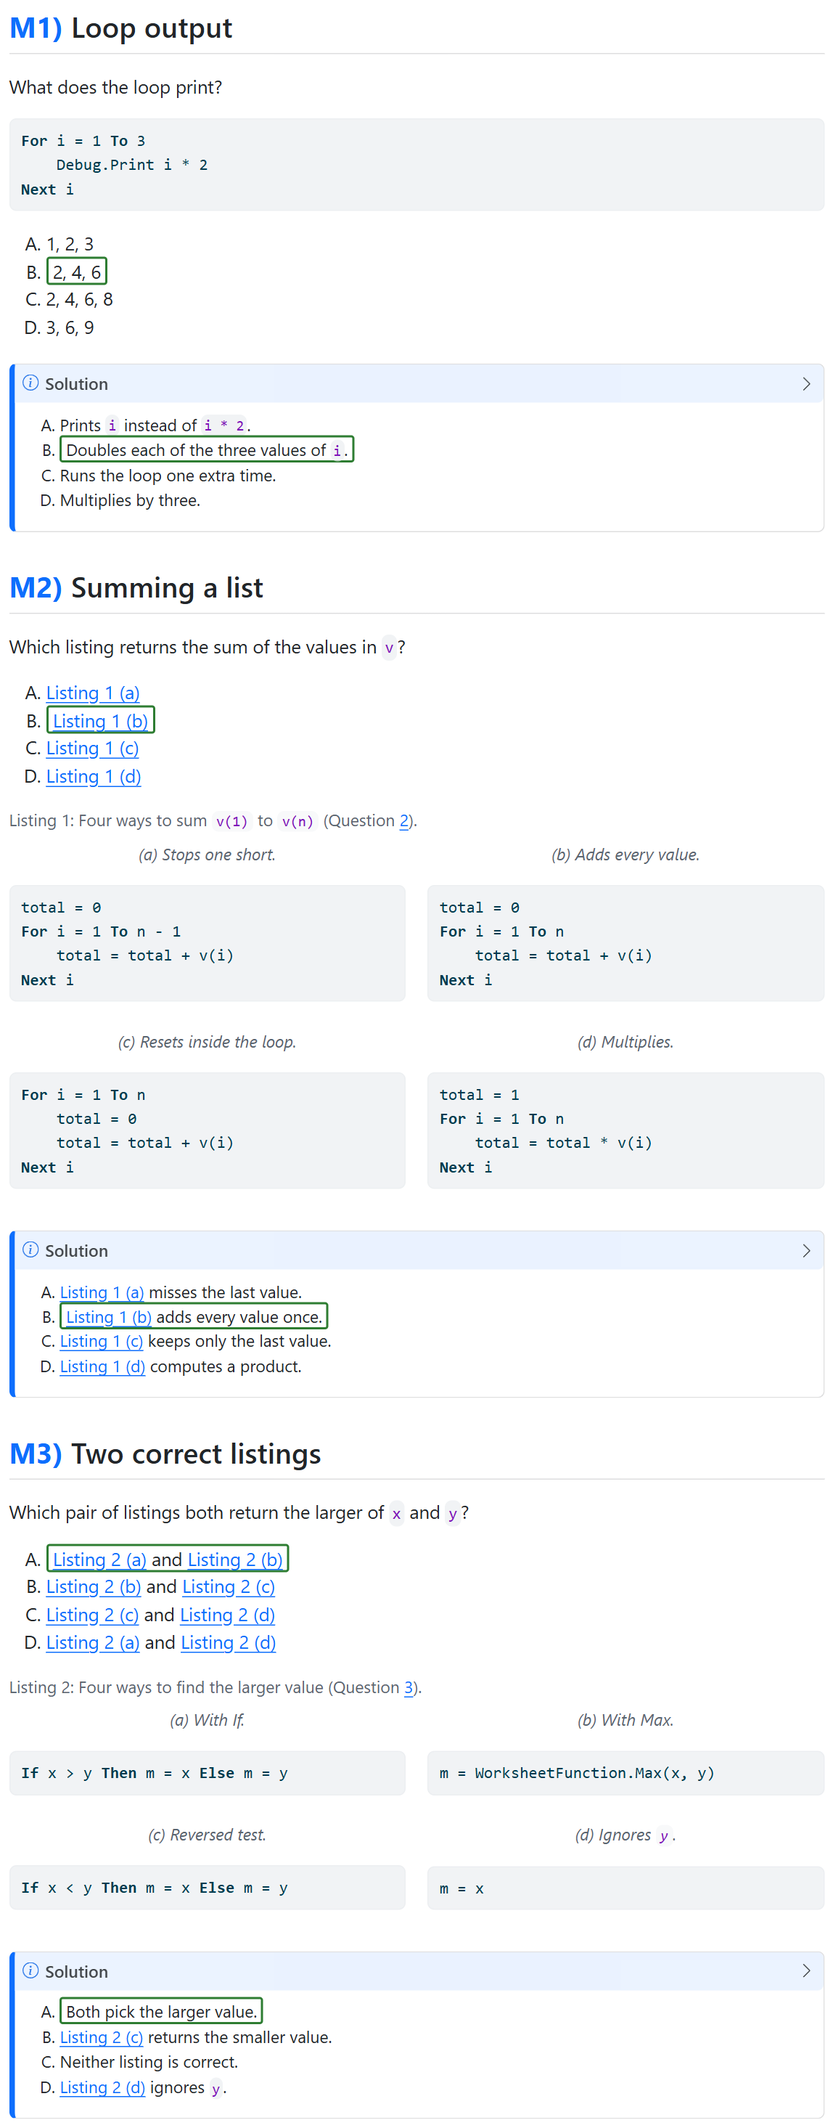
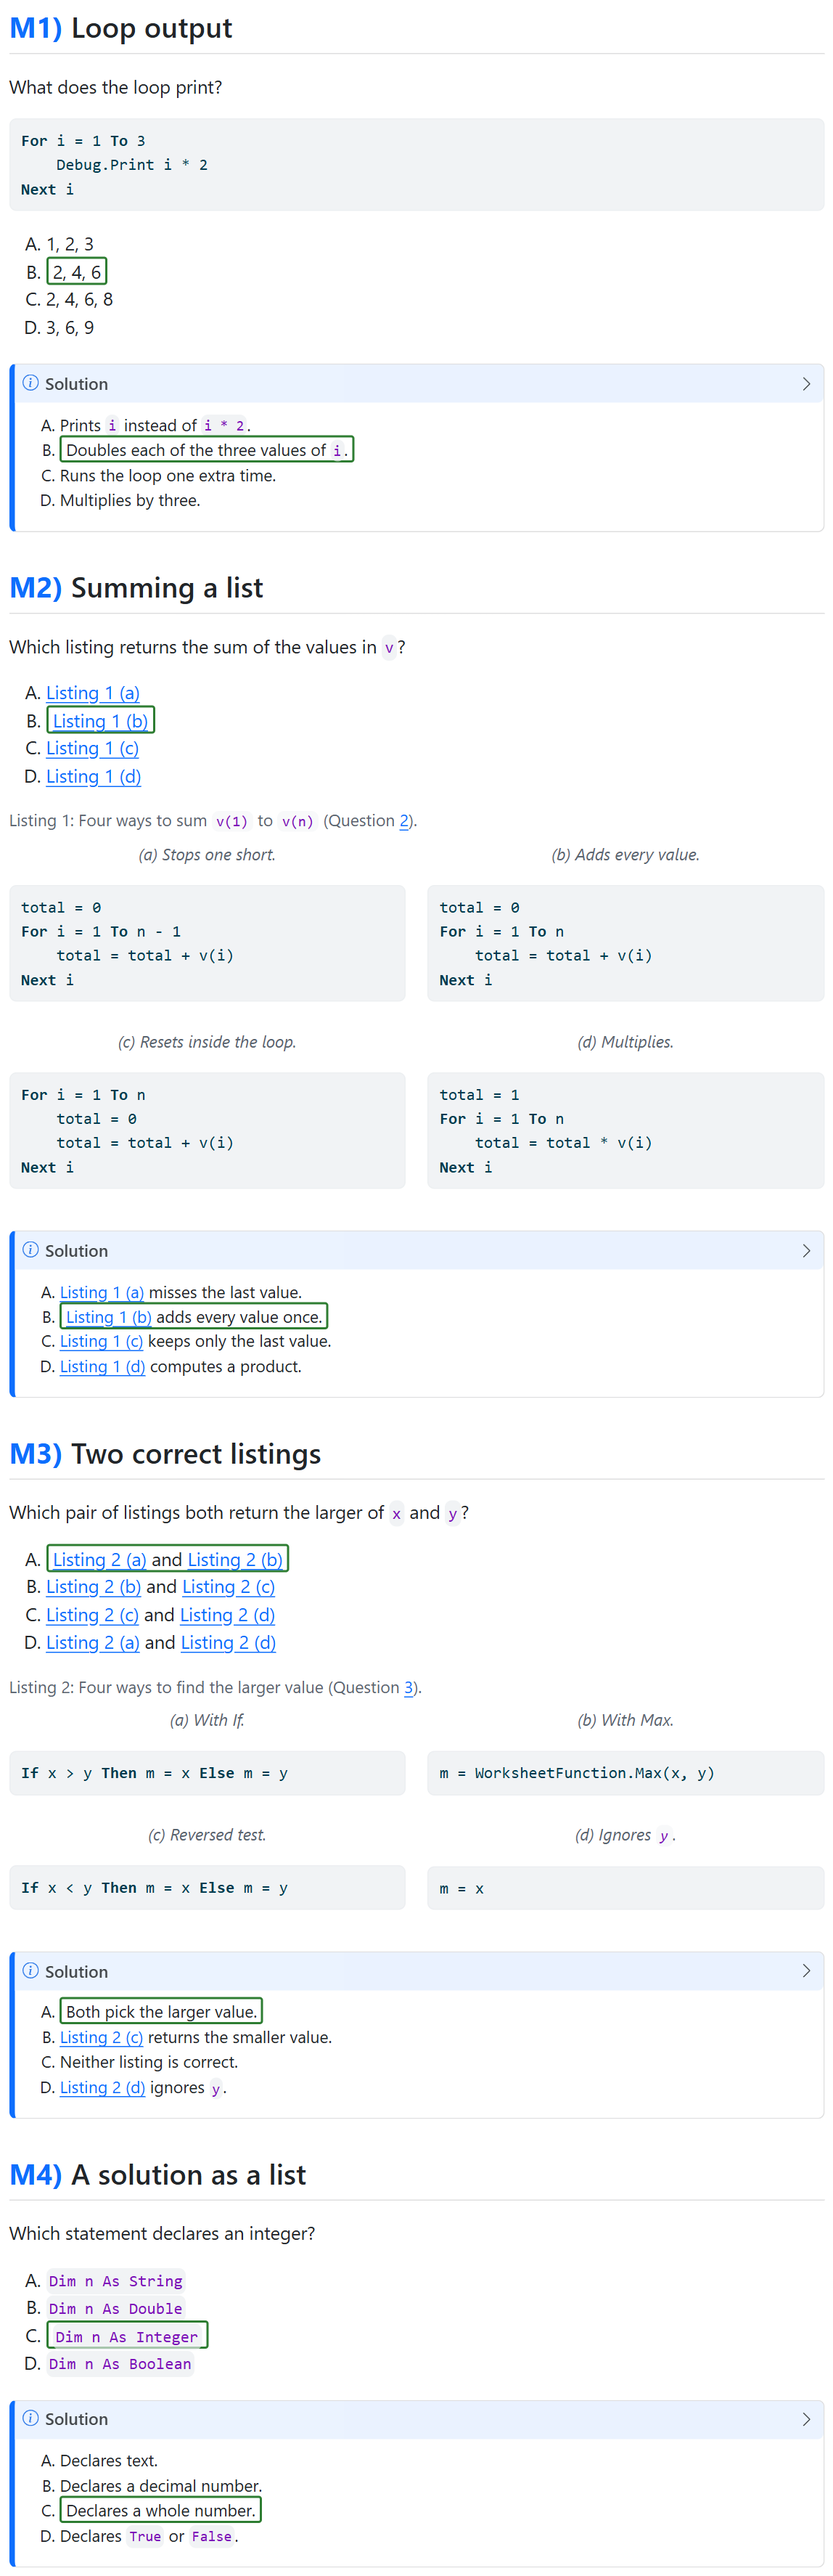
Show the Solution as the explanation list alone
The example's fourth question drops its Answer line and gives its
Solution as an alpha-explanations list, so it moves like the others; the
README recommends that form, since the explanation marked .correct is
the answer and never names a stale letter. The screenshots now show
questions 1 to 4 and the keys match the new render.

diff --git a/README.md b/README.md
@@ -218,34 +218,36 @@ quarto render example-exam.qmd -M exercise-audience:answers -M exam-version:B
 |---|---|
 | ![Version A of the example exam](images/exam-version-A.png) | ![Version B of the example exam](images/exam-version-B.png) |
 
+Every Solution in the example is only its `.alpha-explanations` list. There is
+no separate "**Answer:** C" line: the explanation marked `.correct` is the
+answer, and it moves with its option, so no letter can go stale.
+
 What changed in version B:
 
-1. **Loop output**, a plain question: the correct option moves from B to D,
-   and the explanations in its `.alpha-explanations` block follow, with
-   `.correct` still on the right one.
+1. **Loop output**, a plain question: the correct option moves from B to A,
+   and the explanations follow, with `.correct` still on the right one.
 2. **Summing a list**, one listing per option: the correct option moves from
-   B to A, and the four listings move with their options, so A still shows
-   panel (a) and every explanation still names the listing it describes.
+   B to D, and the four listings move with their options, so D shows panel (d)
+   and every explanation still names the listing it describes.
 3. **Two correct listings**, a pair per option: the correct pair moves from A
-   to B. Every letter names the same slots as before, A (a) and (b), B (b) and
+   to C. Every letter names the same slots as before, A (a) and (b), B (b) and
    (c), C (c) and (d), D (a) and (d), now filled with the listings that make
    the new key true.
-4. **A solution that names a letter** ("**Answer:** C") keeps its order,
-   because the letter would be wrong in version B. Name the answer by its
-   content instead, `**Answer:** Dim n As Integer`, and the question moves
-   like the others.
+4. **A solution as a list**, the plainest case: the correct option moves from
+   C to D, and its explanation goes with it.
 5. **An option that refers to the others** ("None of the above") keeps its
-   order.
+   order, and the render says why:
 
-The render says why the last two stay:
-
-```
-WARNING exam-version: question 4 keeps its order: it names options by letter; name them by their content instead
-WARNING exam-version: question 5 keeps its order: an option refers to the other options
-```
+   ```
+   WARNING exam-version: question 5 keeps its order: an option refers to the other options
+   ```
 
 Each answer view ends with its key: `Key, version A: 1 B, 2 B, 3 A, 4 C, 5 B`
-and `Key, version B: 1 D, 2 A, 3 B, 4 C, 5 B`.
+and `Key, version B: 1 A, 2 D, 3 C, 4 D, 5 B`.
+
+A Solution that adds "**Answer:** C" keeps its order, because the letter would
+be wrong in version B; the render reports it with the fix, to name the option
+by its content.
 
 ### Questions
 
